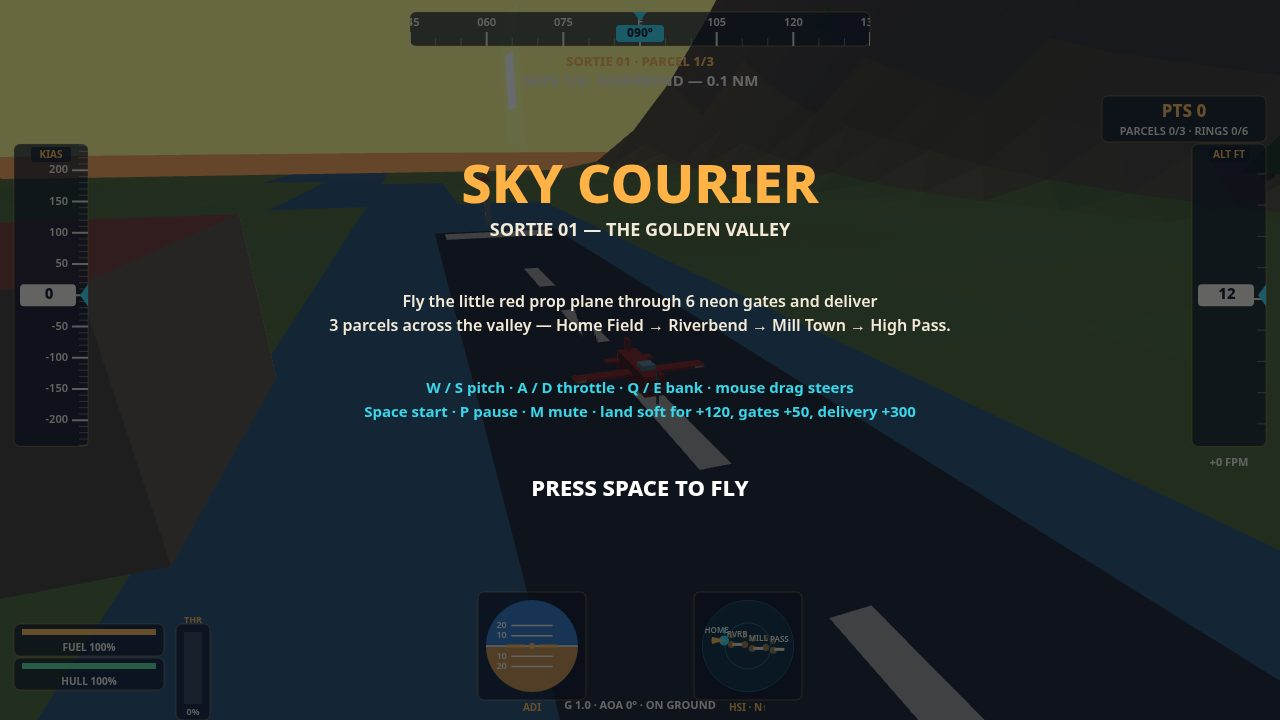
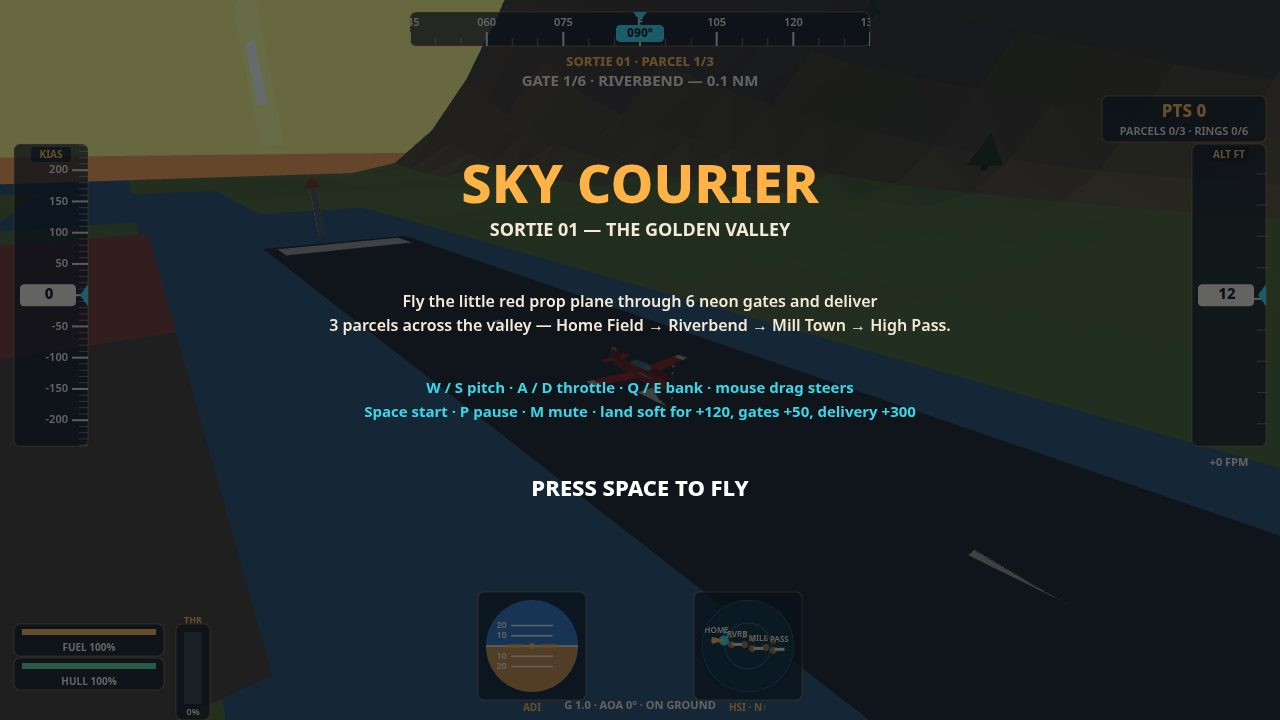
Sky Courier SORTIE 01 (round 2 rev 1): realistic light-plane model
Rebuild the red prop plane as a real light aircraft, same livery and
gameplay: lofted tapered fuselage with cowling intakes and cheatline,
faceted bubble canopy, tapered low wing with dihedral and cream tips,
swept fin with cream tip band + tapered tailplane, two-blade prop with
spinner cone, tricycle gear with spats, nav lights, pitot and landing
light. New screenshots of the revised plane.

diff --git a/game/src/plane.js b/game/src/plane.js
@@ -20,31 +20,166 @@ const GLASS = [0.55, 0.75, 0.85];
 
 export function buildPlaneMesh() {
   const b = builder();
-  // Fuselage: a long tapered box, cream belly, red back.
-  b.box(0, 0, 0, 3.4, 0.85, 0.85, RED, {
-    top: RED, bottom: CREAM, front: RED_DARK, back: RED_DARK,
-  });
-  b.box(3.2, 0.1, 0, 0.7, 0.6, 0.6, RED_DARK); // nose cap
-  // Canopy: a glass slab on top, just behind the nose.
-  b.slab(0.9, 2.1, 0.75, 1.25, -0.55, 0.55, GLASS);
-  // Main wing: wide slab through the middle, cream tips.
-  b.slab(-0.6, 0.6, -0.12, 0.12, -5.6, 5.6, RED);
-  b.slab(-0.6, 0.6, -0.12, 0.12, -5.6, -4.7, CREAM);
-  b.slab(-0.6, 0.6, -0.12, 0.12, 4.7, 5.6, CREAM);
-  // Tail: horizontal stabiliser and a tall red fin.
-  b.slab(-3.4, -2.6, -0.05, 0.15, -2.1, 2.1, RED);
-  b.slab(-3.5, -2.7, 0.6, 1.9, -0.14, 0.14, RED);
-  // Propeller: a thin dark disc at the nose, spun in the render loop by
-  // scaling it — the mesh itself is a flat cross that reads as a blur.
-  b.slab(3.95, 4.05, -1.5, 1.5, -0.09, 0.09, GREY);
-  b.slab(3.95, 4.05, -0.09, 0.09, -1.5, 1.5, GREY);
-  b.box(4.0, 0, 0, 0.3, 0.3, 0.3, GREY); // spinner hub
-  // Fixed gear: two little legs with wheels, so the plane sits on strips.
-  for (const s of [-1, 1]) {
-    b.box(0.9, -1.15, s * 1.1, 0.12, 0.35, 0.12, GREY);
-    b.box(0.9, -1.5, s * 1.1, 0.32, 0.32, 0.22, [0.1, 0.1, 0.1]);
+  // Fuselage: a lofted shell, not a box — a row of cross-sections (x,
+  // belly, roof, half-width) joined face by face, so the body swells
+  // over the cowling, holds the cabin, then tapers to a fine tail cone.
+  // Cream belly, red back and flanks, dark nose face (cooling intake).
+  const fus = [
+    [3.6, -0.40, 0.40, 0.40],
+    [3.0, -0.47, 0.47, 0.47],
+    [2.2, -0.49, 0.49, 0.48],
+    [1.4, -0.48, 0.52, 0.46],
+    [0.4, -0.46, 0.55, 0.43],
+    [-0.6, -0.43, 0.52, 0.39],
+    [-1.7, -0.36, 0.40, 0.30],
+    [-2.8, -0.24, 0.26, 0.18],
+    [-3.9, -0.11, 0.13, 0.08],
+  ];
+  for (let i = 0; i < fus.length - 1; i++) {
+    const a = fus[i], c = fus[i + 1];
+    b.quad([a[0], a[2], a[3]], [c[0], c[2], c[3]], [c[0], c[2], -c[3]], [a[0], a[2], -a[3]], RED);
+    b.quad([a[0], a[1], -a[3]], [c[0], c[1], -c[3]], [c[0], c[1], c[3]], [a[0], a[1], a[3]], CREAM);
+    b.quad([a[0], a[1], a[3]], [c[0], c[1], c[3]], [c[0], c[2], c[3]], [a[0], a[2], a[3]], RED);
+    b.quad([c[0], c[1], -c[3]], [a[0], a[1], -a[3]], [a[0], a[2], -a[3]], [c[0], c[2], -c[3]], RED);
   }
-  b.box(-2.6, -1.05, 0, 0.1, 0.3, 0.1, GREY);
+  b.quad([3.6, -0.40, 0.40], [3.6, -0.40, -0.40], [3.6, 0.40, -0.40], [3.6, 0.40, 0.40], RED_DARK);
+  b.quad([-3.9, -0.11, -0.08], [-3.9, -0.11, 0.08], [-3.9, 0.13, 0.08], [-3.9, 0.13, -0.08], RED);
+  // Cowling cooling inlets on the nose face, and a cream cheatline
+  // stripe along the cabin flank — the livery line a real light plane wears.
+  b.box(3.62, -0.12, 0.18, 0.03, 0.14, 0.12, [0.08, 0.08, 0.09]);
+  b.box(3.62, -0.12, -0.18, 0.03, 0.14, 0.12, [0.08, 0.08, 0.09]);
+  b.slab(0.4, 2.2, 0.05, 0.16, 0.44, 0.475, CREAM);
+  b.slab(0.4, 2.2, 0.05, 0.16, -0.475, -0.44, CREAM);
+  // Canopy: a faceted bubble, not a slab — five stations from the sloped
+  // windshield to the tapered rear, each a shallow arch (base, mid, ridge)
+  // so the glass reads as a curved greenhouse over the cabin.
+  const can = [
+    [1.35, 0.48, 0.62, 0.68, 0.30, 0.16],
+    [0.9, 0.50, 0.82, 0.92, 0.38, 0.20],
+    [0.2, 0.52, 0.86, 0.96, 0.40, 0.21],
+    [-0.5, 0.50, 0.80, 0.88, 0.36, 0.18],
+    [-1.0, 0.44, 0.60, 0.64, 0.28, 0.12],
+  ];
+  for (let i = 0; i < can.length - 1; i++) {
+    const a = can[i], c = can[i + 1];
+    for (const s of [1, -1]) {
+      const q = (y0, z0, y1, z1, y2, z2, y3, z3) => s > 0
+        ? b.quad([a[0], y0, z0], [c[0], y1, z1], [c[0], y2, z2], [a[0], y3, z3], GLASS)
+        : b.quad([c[0], y1, z1], [a[0], y0, z0], [a[0], y3, z3], [c[0], y2, z2], GLASS);
+      q(a[1], s * a[4], c[1], s * c[4], c[2], s * c[5], a[2], s * a[5]);
+      q(a[2], s * a[5], c[2], s * c[5], c[3], 0, a[3], 0);
+    }
+  }
+  // Windshield (front) and rear glass faces.
+  b.quad([1.35, 0.48, 0.30], [1.35, 0.48, -0.30], [1.35, 0.62, -0.16], [1.35, 0.62, 0.16], GLASS);
+  b.tri([1.35, 0.62, 0.16], [1.35, 0.62, -0.16], [1.35, 0.68, 0], GLASS);
+  b.quad([-1.0, 0.44, -0.28], [-1.0, 0.44, 0.28], [-1.0, 0.60, 0.12], [-1.0, 0.60, -0.12], GLASS);
+  b.tri([-1.0, 0.60, -0.12], [-1.0, 0.60, 0.12], [-1.0, 0.64, 0], GLASS);
+  // Radio mast on the cabin roof.
+  b.box(-0.8, 0.72, 0, 0.03, 0.22, 0.03, GREY);
+  // Wings: a tapered-wing helper — root chord wide, tip chord narrow,
+  // tip raised for dihedral, thin at the tip — called for the main wing
+  // (low-wing, under the cabin) and the tailplane alike.
+  function taperedWing(s, rz, tz, rLE, rTE, rYt, rYb, tLE, tTE, tYt, tYb, color) {
+    const rL = [rLE, rYt, s * rz], rT = [rTE, rYt, s * rz];
+    const tL = [tLE, tYt, s * tz], tT = [tTE, tYt, s * tz];
+    const rbL = [rLE, rYb, s * rz], rbT = [rTE, rYb, s * rz];
+    const tbL = [tLE, tYb, s * tz], tbT = [tTE, tYb, s * tz];
+    if (s > 0) b.quad(rL, rT, tT, tL, color); else b.quad(rL, tL, tT, rT, color);
+    if (s > 0) b.quad(rbL, tbL, tbT, rbT, color); else b.quad(rbL, rbT, tbT, tbL, color);
+    if (s > 0) b.quad(rbL, rL, tL, tbL, color); else b.quad(rbL, tbL, tL, rL, color);
+    if (s > 0) b.quad(rbT, tbT, tT, rT, color); else b.quad(rbT, rT, tT, tbT, color);
+    if (s > 0) b.quad(tL, tT, tbT, tbL, color); else b.quad(tL, tbL, tbT, tT, color);
+  }
+  // Main wing, low set with dihedral: red to z=±4.3, cream tips outboard
+  // (span 9.8 against a 7.5 fuselage, as on a real light plane).
+  for (const s of [1, -1]) {
+    taperedWing(s, 0.35, 4.3, 0.75, -0.85, -0.20, -0.34, 0.45, -0.62, 0.14, 0.06, RED);
+    taperedWing(s, 4.3, 4.9, 0.45, -0.62, 0.14, 0.06, 0.38, -0.58, 0.17, 0.09, CREAM);
+    // Navigation lights: red port (+z), green starboard (−z).
+    b.box(0.0, 0.13, s * 4.92, 0.12, 0.05, 0.05, s > 0 ? [0.9, 0.1, 0.1] : [0.1, 0.85, 0.25]);
+  }
+  // Pitot tube under the port wing, landing light in the port leading edge.
+  b.box(0.2, -0.38, -1.6, 0.22, 0.03, 0.03, GREY);
+  b.box(0.6, -0.15, -3.2, 0.04, 0.08, 0.12, [1, 0.95, 0.8]);
+  // Tail: tapered horizontal stabiliser (same helper as the wing) and a
+  // swept vertical fin — leading edge raked back, cream tip band, white
+  // tail light at the very tip of the cone.
+  for (const s of [1, -1]) {
+    taperedWing(s, 0.15, 1.35, -2.70, -3.60, 0.22, 0.12, -3.00, -3.70, 0.28, 0.20, RED);
+  }
+  const fin = { bf: [-2.55, 0.18], bb: [-3.85, 0.18], tf: [-3.15, 1.15], tb: [-3.80, 1.15] };
+  for (const s of [1, -1]) {
+    const z = s * 0.07;
+    if (s > 0) {
+      b.quad([fin.bf[0], fin.bf[1], z], [fin.tf[0], fin.tf[1], z], [fin.tb[0], fin.tb[1], z], [fin.bb[0], fin.bb[1], z], RED);
+    } else {
+      b.quad([fin.bb[0], fin.bb[1], z], [fin.tb[0], fin.tb[1], z], [fin.tf[0], fin.tf[1], z], [fin.bf[0], fin.bf[1], z], RED);
+    }
+  }
+  b.quad([-2.55, 0.18, 0.07], [-2.55, 0.18, -0.07], [-3.15, 1.15, -0.07], [-3.15, 1.15, 0.07], RED);
+  b.quad([-3.80, 1.15, 0.07], [-3.80, 1.15, -0.07], [-3.85, 0.18, -0.07], [-3.85, 0.18, 0.07], RED);
+  b.quad([-3.15, 1.15, 0.07], [-3.15, 1.15, -0.07], [-3.80, 1.15, -0.07], [-3.80, 1.15, 0.07], RED);
+  // Cream tip band on the fin, proud of the surface so it never z-fights.
+  for (const s of [1, -1]) {
+    const z = s * 0.075;
+    const y0 = 0.95, y1 = 1.15;
+    const xf0 = -2.55 - (y0 - 0.18) * (0.60 / 0.97), xf1 = -3.15;
+    const xb0 = -3.85 + (y0 - 0.18) * (0.05 / 0.97), xb1 = -3.80;
+    if (s > 0) b.quad([xf0, y0, z], [xf1, y1, z], [xb1, y1, z], [xb0, y0, z], CREAM);
+    else b.quad([xb0, y0, z], [xb1, y1, z], [xf1, y1, z], [xf0, y0, z], CREAM);
+  }
+  b.box(-3.92, 0.01, 0, 0.06, 0.08, 0.08, [1, 1, 0.95]); // tail light
+  // Propeller: two tapered blades with a slight twist and cream tips,
+  // plus a four-sided spinner cone — a real prop, not a blur cross.
+  // Spinner: tip at x=4.45, square base at x=3.85.
+  const spin = [[3.85, 0.24, 0.24], [3.85, 0.24, -0.24], [3.85, -0.24, -0.24], [3.85, -0.24, 0.24]];
+  for (let i = 0; i < 4; i++) {
+    b.tri([4.45, 0, 0], spin[(i + 1) % 4], spin[i], RED);
+  }
+  b.quad([3.85, 0.24, 0.24], [3.85, 0.24, -0.24], [3.85, -0.24, -0.24], [3.85, -0.24, 0.24], RED_DARK);
+  for (const s of [1, -1]) {
+    // One blade from y=0.20*s out to y=1.15*s, chord 0.22 at the root
+    // narrowing to 0.14 at the tip, cream from 0.95*s out — short
+    // enough that the down blade clears the ground on its gear.
+    const blade = (y0, y1, color) => {
+      const a = [3.95, y0, 0.11], c = [3.95, y1, 0.07];
+      const d = [3.95, y1, -0.07], e = [3.95, y0, -0.11];
+      const A = [4.01, y0, 0.11], C = [4.01, y1, 0.11];
+      const D = [4.01, y1, -0.03], E = [4.01, y0, -0.11];
+      if (s > 0) {
+        b.quad(A, E, D, C, color);
+        b.quad(a, c, d, e, color);
+        b.quad(a, A, C, c, color);
+        b.quad(e, d, D, E, color);
+      } else {
+        b.quad(A, C, D, E, color);
+        b.quad(a, e, d, c, color);
+        b.quad(a, c, C, A, color);
+        b.quad(e, E, D, d, color);
+      }
+    };
+    blade(0.20 * s, 0.95 * s, GREY);
+    blade(0.95 * s, 1.15 * s, CREAM);
+    // Tip cap of the blade.
+    if (s > 0) b.quad([4.01, 1.15, -0.03], [3.95, 1.15, -0.03], [3.95, 1.15, 0.11], [4.01, 1.15, 0.11], CREAM);
+    else b.quad([4.01, -1.15, 0.11], [3.95, -1.15, 0.11], [3.95, -1.15, -0.03], [4.01, -1.15, -0.03], CREAM);
+  }
+  b.box(3.9, 0, 0, 0.18, 0.18, 0.18, RED_DARK); // hub behind the spinner
+  // Tricycle gear: a nose leg and two splayed main legs, each wheel in
+  // a red spat fairing with the tyre showing below, plus the exhaust
+  // stack under the cowling.
+  b.box(2.3, -0.85, 0, 0.09, 0.45, 0.09, GREY);
+  b.box(2.3, -1.32, 0, 0.26, 0.26, 0.16, [0.1, 0.1, 0.1]);
+  b.box(2.3, -1.32, 0, 0.28, 0.13, 0.18, GREY);
+  b.box(2.3, -1.18, 0, 0.32, 0.16, 0.13, RED);
+  for (const s of [-1, 1]) {
+    b.box(0.7, -0.85, s * 0.95, 0.09, 0.42, 0.09, GREY);
+    b.box(0.7, -1.35, s * 1.12, 0.26, 0.26, 0.16, [0.1, 0.1, 0.1]);
+    b.box(0.7, -1.35, s * 1.12, 0.28, 0.13, 0.18, GREY);
+    b.box(0.7, -1.18, s * 1.12, 0.34, 0.18, 0.14, RED);
+  }
+  b.box(2.9, -0.42, 0.35, 0.18, 0.07, 0.07, [0.12, 0.12, 0.13]);
   return b.data;
 }
 
